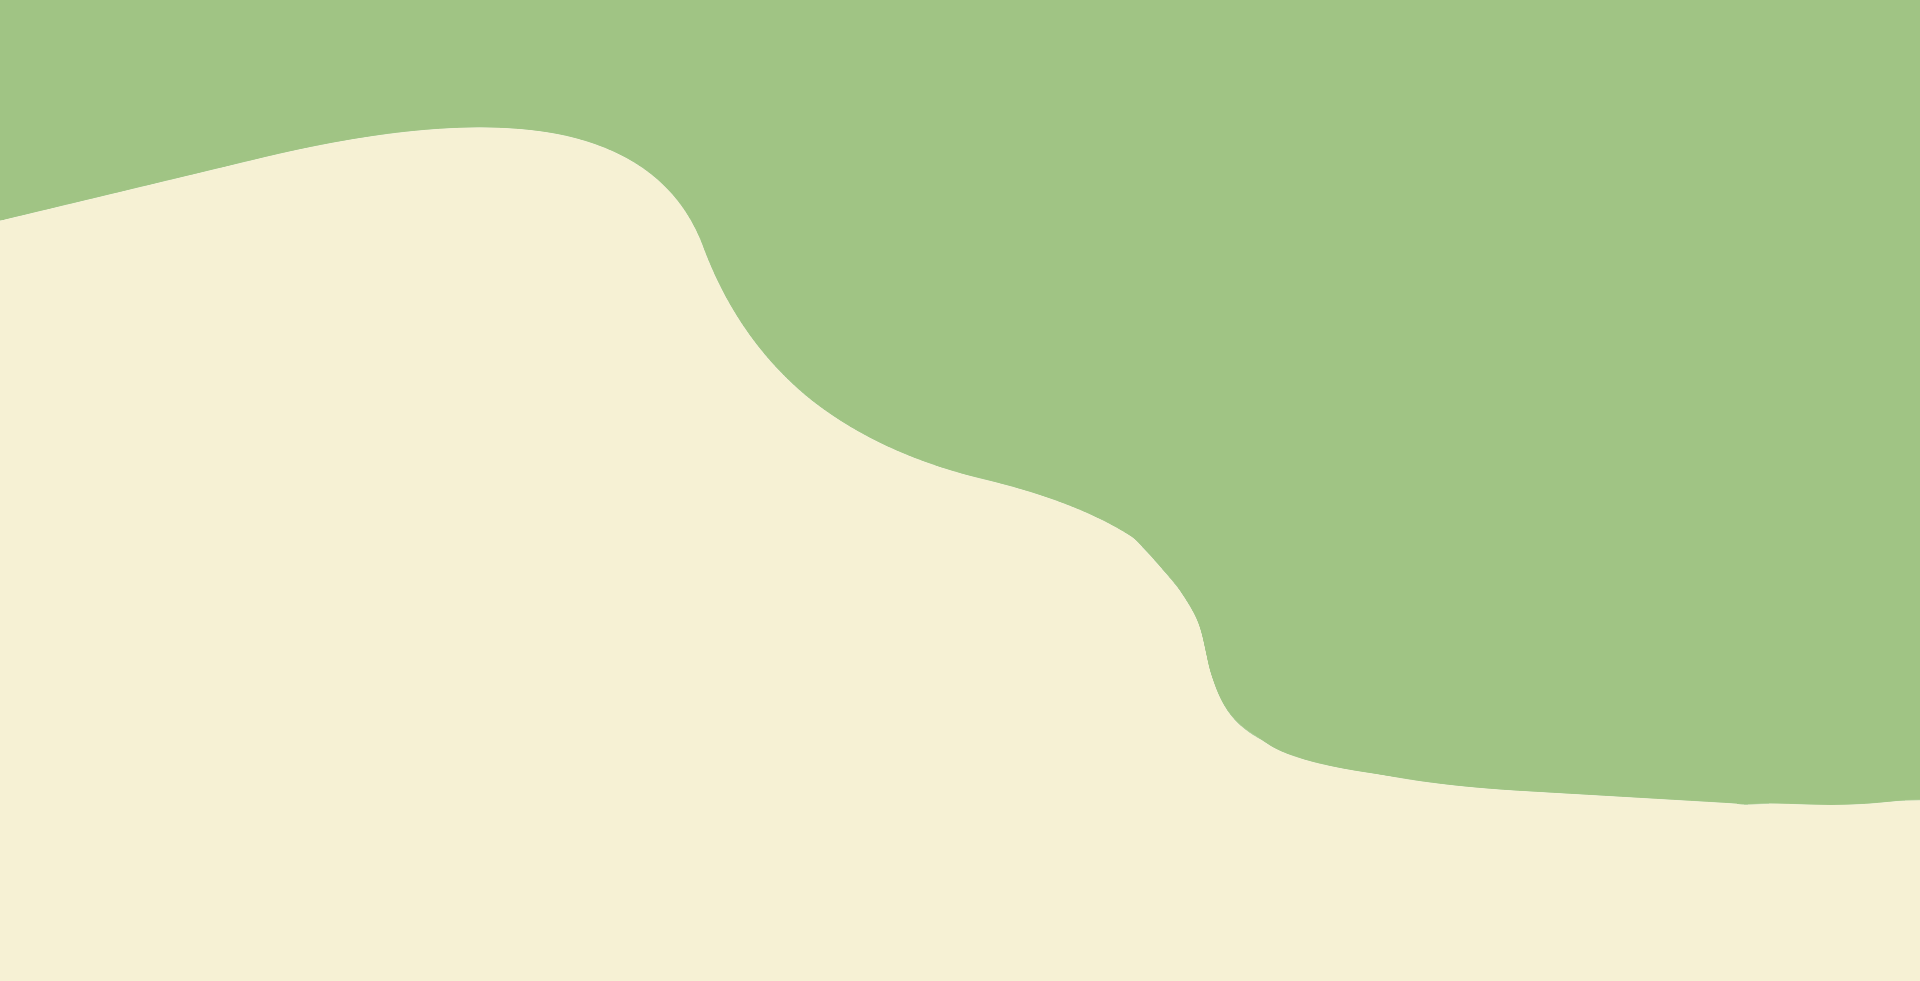
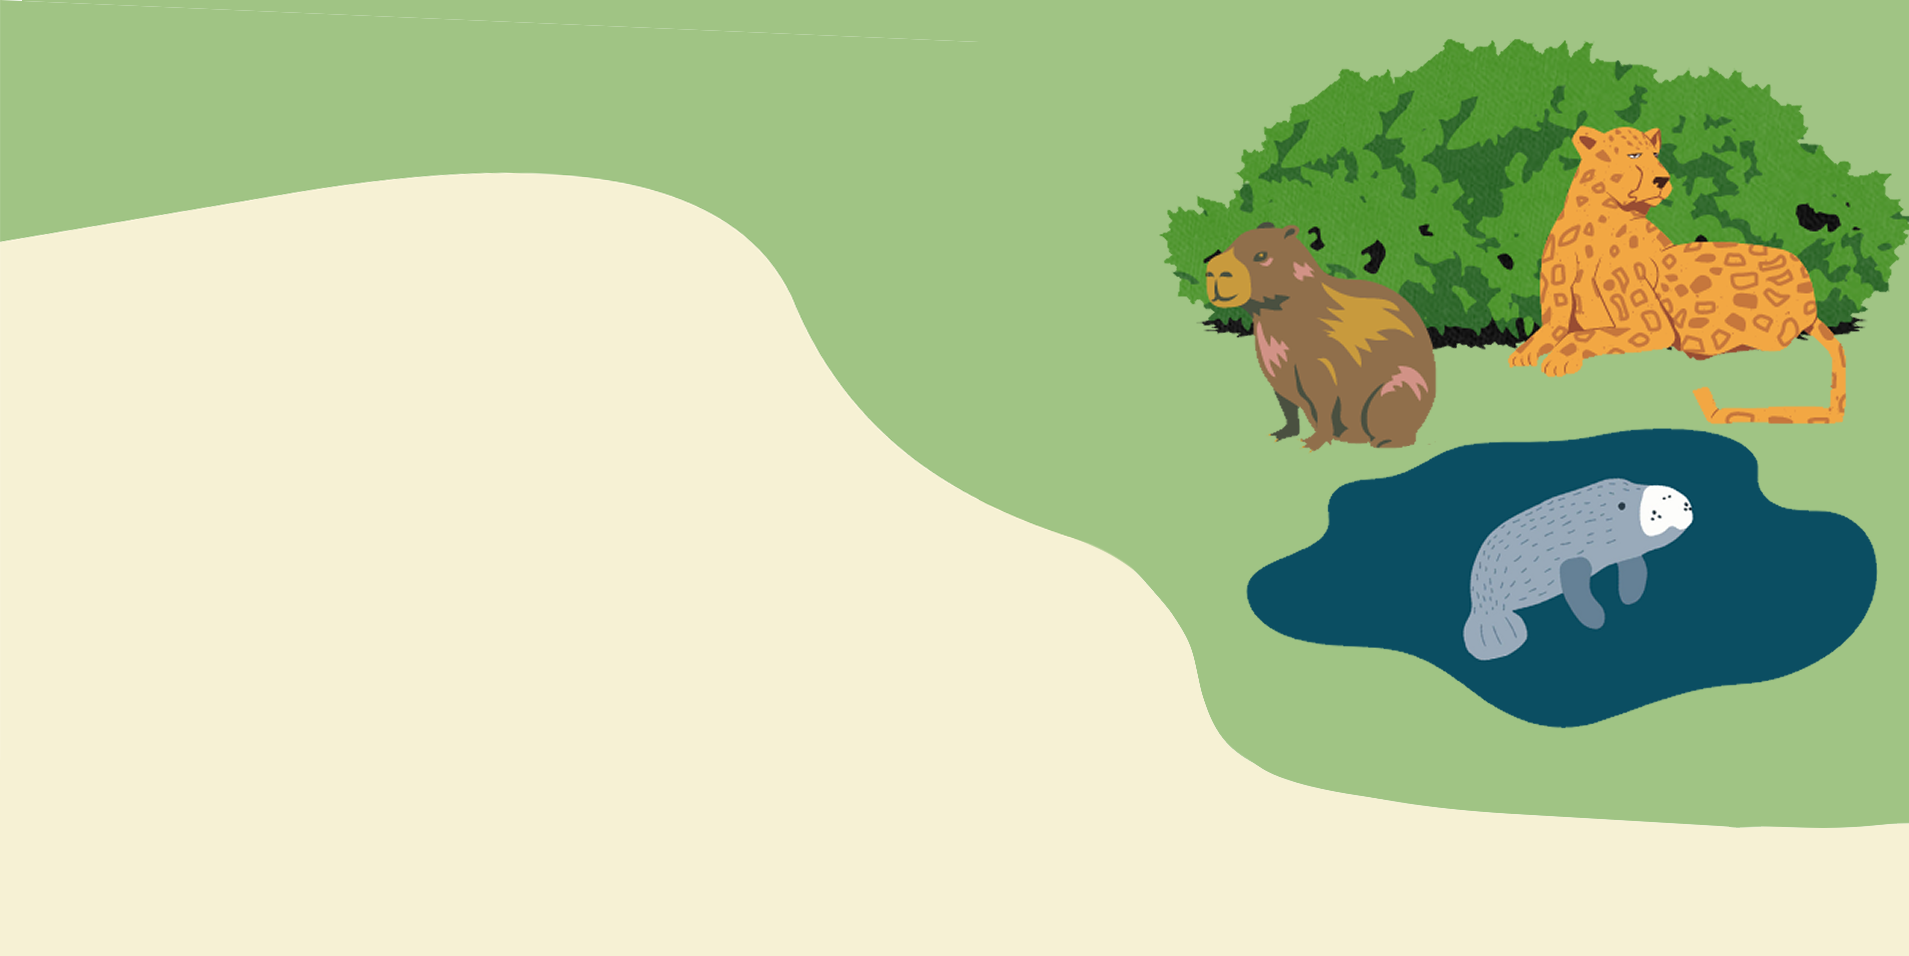
mais texto na tela inicial

Changed region(s): [[0.5872, 0.0303, 1.0, 0.8797], [0.0, 0.1213, 0.4636, 0.455], [0.4636, 0.455, 0.6181, 0.637]]

diff --git a/index.html b/index.html
@@ -21,67 +21,28 @@
             </nav>
         </header>
         <main>
-            <p> . </p>
-            <p> . </p>
-            <p> . </p>
-            <p> . </p>
-            <p> . </p>
-            <p> . </p>
-            <p> . </p>
-            <p> . </p>
-            <p> . </p>
-            <p> . </p>
-            <p> . </p>
-            <p> . </p>
-            <p> . </p>
-            <p> . </p>
-            <p> . </p>
-            <p> . </p>
-            <p> . </p>
-            <p> . </p>
-            <p> . </p>
-            <p> . </p>
-            <p> . </p>
-            <p> . </p>
-            <p> . </p>
-            <p> . </p>
-            <p> . </p>
-            <p> . </p>
-            <p> . </p>
-            <p> . </p>
-            <p> . </p>
-            <p> . </p>
-            <p> . </p>
-            <p> . </p>
-            <p> . </p>
-            <p> . </p>
-            <p> . </p>
-            <p> . </p>
-            <p> . </p>
-            <p> . </p>
-            <p> . </p>
-            <p> . </p>
-            <p> . </p>
-            <p> . </p>
-            <p> . </p>
-            <p> . </p>
-            <p> . </p>
-            <p> . </p>
-            <p> . </p>
-            <p> . </p>
-            <p> . </p>
-            <p> . </p>
-            <p> . </p>
-            <p> . </p>
-            <p> . </p>
-            <p> . </p>
-            <p> . </p>
-            <p> . </p>
-            <p> . </p>
-            <p> . </p>
-            <p> . </p>
-            <p> . </p>
-            <p> . </p>
+            <div id="exploroubiomas">
+                <h1>Você já explorou os biomas?</h1>
+                <p>Prepare-se para uma viagem selvagem pelos ecossistemas brasileiros! 
+                    Neste incrível site, você vai conhecer as estrelas da biodiversidade
+                    nacional. Não espere para ver o que nosso país tem a oferecer! </p>
+            </div> 
+            <div id="mapabrasil">
+                <img src="imagens/brasil.png" alt="Mapa do Brasil">
+            </div>
+            <div id="info">
+                <h1>Em terra de brasileiro, natureza é mato…</h1>
+                <p>Já parou pra pensar em quantos biomas a gente tem? A famosa Amazônia 
+                    é só um deles! Mas não se preocupe, aqui você vai encontrar informação 
+                    e <mark>bichinhos fofos</mark> pra te ajudar a descobrir mais sobre o Brasil! 
+                    (Vai lá em cima e clica nos ecossistemas, certeza que você vai gostar <3) </p>
+            </div>
+            <div id="sobrenos">
+                <h1>Creditos e os krl</h1>
+                <p>Bla bla bla bla bla bla bla bla bla bla bla bla bla bla bla
+                    bla bla bla bla bla bla bla bla bla bla bla bla bla bla bla bla 
+                    bla bla bla bla bla bla bla bla bla bla bla bla bla bla bla bla </p>
+            </div>
         </main>
         <footer>
             <p>Contate-nos em:</p>

diff --git a/estilos.css b/estilos.css
@@ -1,11 +1,7 @@
-@import url('https://fonts.googleapis.com/css2?family=Roboto:wght@100;300;400;500;700;900&display=swap');
+@import url('https://fonts.googleapis.com/css2?family=Righteous&family=Roboto:wght@100;300;400;500;700;900&display=swap');
 
 body {
   background-color: #e0dcdc;
-}
-
-.telainicial {
-  overflow-y: scroll;
 }
 
 * {
@@ -204,4 +200,42 @@ footer {
   display:flex;
   justify-content:center;
   align-items:center;
+}
+.telainicial h1 {
+  font-family: 'Righteous', cursive;
+  font-size: 50px;
+  line-height: 90%;
+}
+.telainicial p {
+  font-size: 20px;
+}
+#exploroubiomas {
+  max-width: 35%;
+  margin-top: 12%;
+  margin-left: 5%;
+  word-wrap: break-word;
+}
+#exploroubiomas p {
+  margin-top: 2%;
+  font-size: 20px;
+}
+
+#mapabrasil img {
+  max-width: 30%;
+  max-height: 30%;
+  margin: 14% 0% 5% 5%;
+  float: left;
+}
+#info {
+  max-width: 40%;
+  max-height: 40%;
+  margin: 20% 10% 10% 5%;
+  float: right;
+}
+#sobrenos {
+  margin: 5%;
+  float: left;
+}
+mark {
+  background-color: pink;
 }

diff --git a/script.js b/script.js
@@ -1,9 +1,7 @@
-/* Set the width of the sidebar to 250px (show it) */
 function abreTabela() {
     document.getElementById("abrivel").style.height = "200px";
   }
   
-  /* Set the width of the sidebar to 0 (hide it) */
   function fechaTabela() {
     document.getElementById("abrivel").style.height = "40px";
   }
